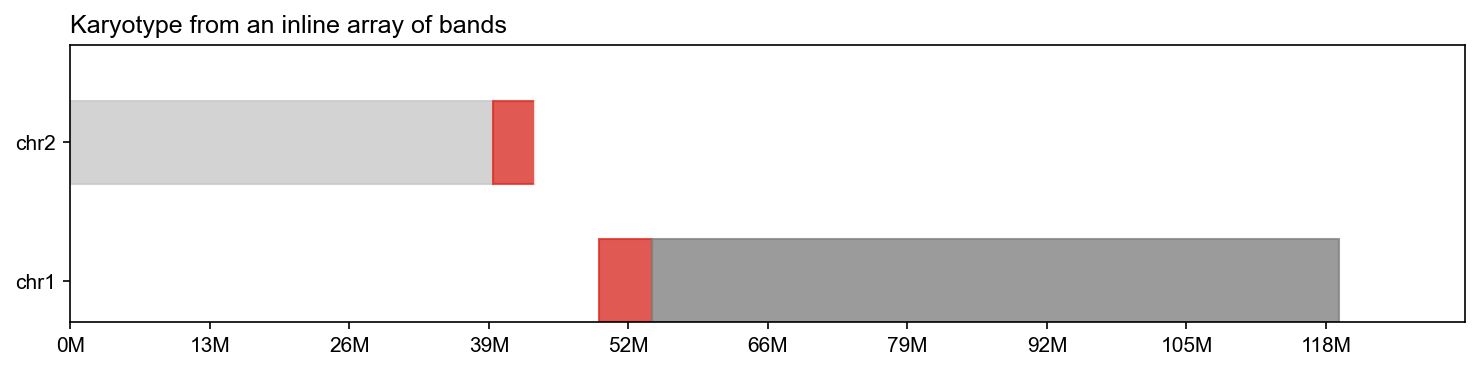
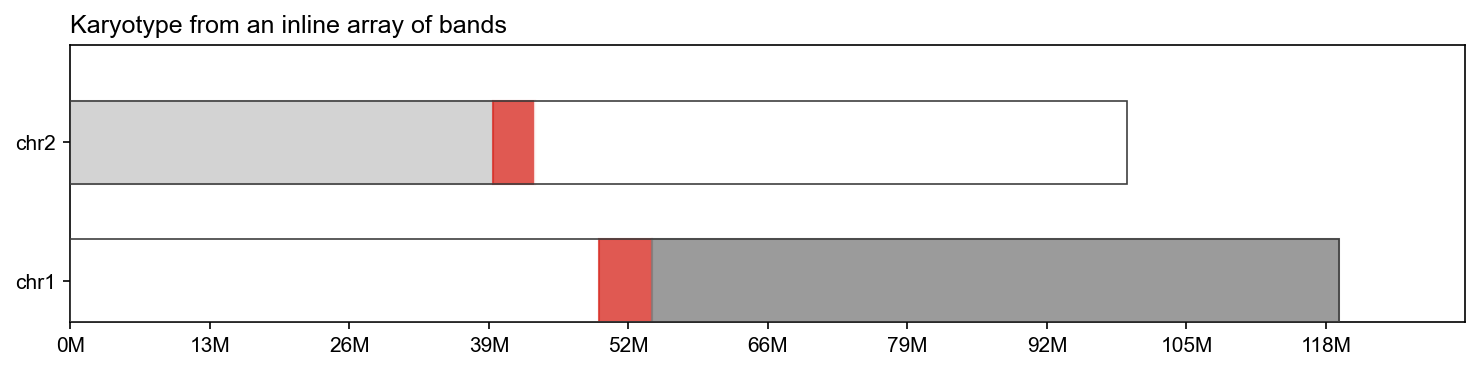
fix(karyotype): outline each chromosome so white gneg bands stay visible
White (gneg) cytobands render as #FFFFFF and vanished on the white background,
making continuous chromosomes look fragmented. Draw a full-span outline per
chromosome so its extent is always visible.

Changed region(s): [[0.0622, 0.6226, 0.9014, 0.6523], [0.0622, 0.4744, 0.777, 0.504], [0.0622, 0.2668, 0.777, 0.2965]]

diff --git a/geneview/karyotype/_karyotype.py b/geneview/karyotype/_karyotype.py
@@ -95,7 +95,16 @@ def karyoplot(data, ax=None, width=0.5, CHR=None, alpha=0.8, color4none="#34728B
                                  facecolor=band_color, alpha=alpha, **band_style)
             ax.add_patch(band_rec)
 
-        max_end = max(max_end, int(kc_df["chromEnd"].max()))
+        # Draw a continuous outline spanning the whole chromosome so it does not
+        # look fragmented where white (gneg) bands blend into the background.
+        chrom_start = int(kc_df["chromStart"].min())
+        chrom_end = int(kc_df["chromEnd"].max())
+        outline = Rectangle((chrom_start, row), chrom_end - chrom_start, width,
+                            facecolor="none", edgecolor="#3f3f3f",
+                            linewidth=kwargs.get("linewidth", 0.8), zorder=3)
+        ax.add_patch(outline)
+
+        max_end = max(max_end, chrom_end)
         row += 1
 
     # Scale the x-axis to the plotted chromosome(s); fall back to the full
